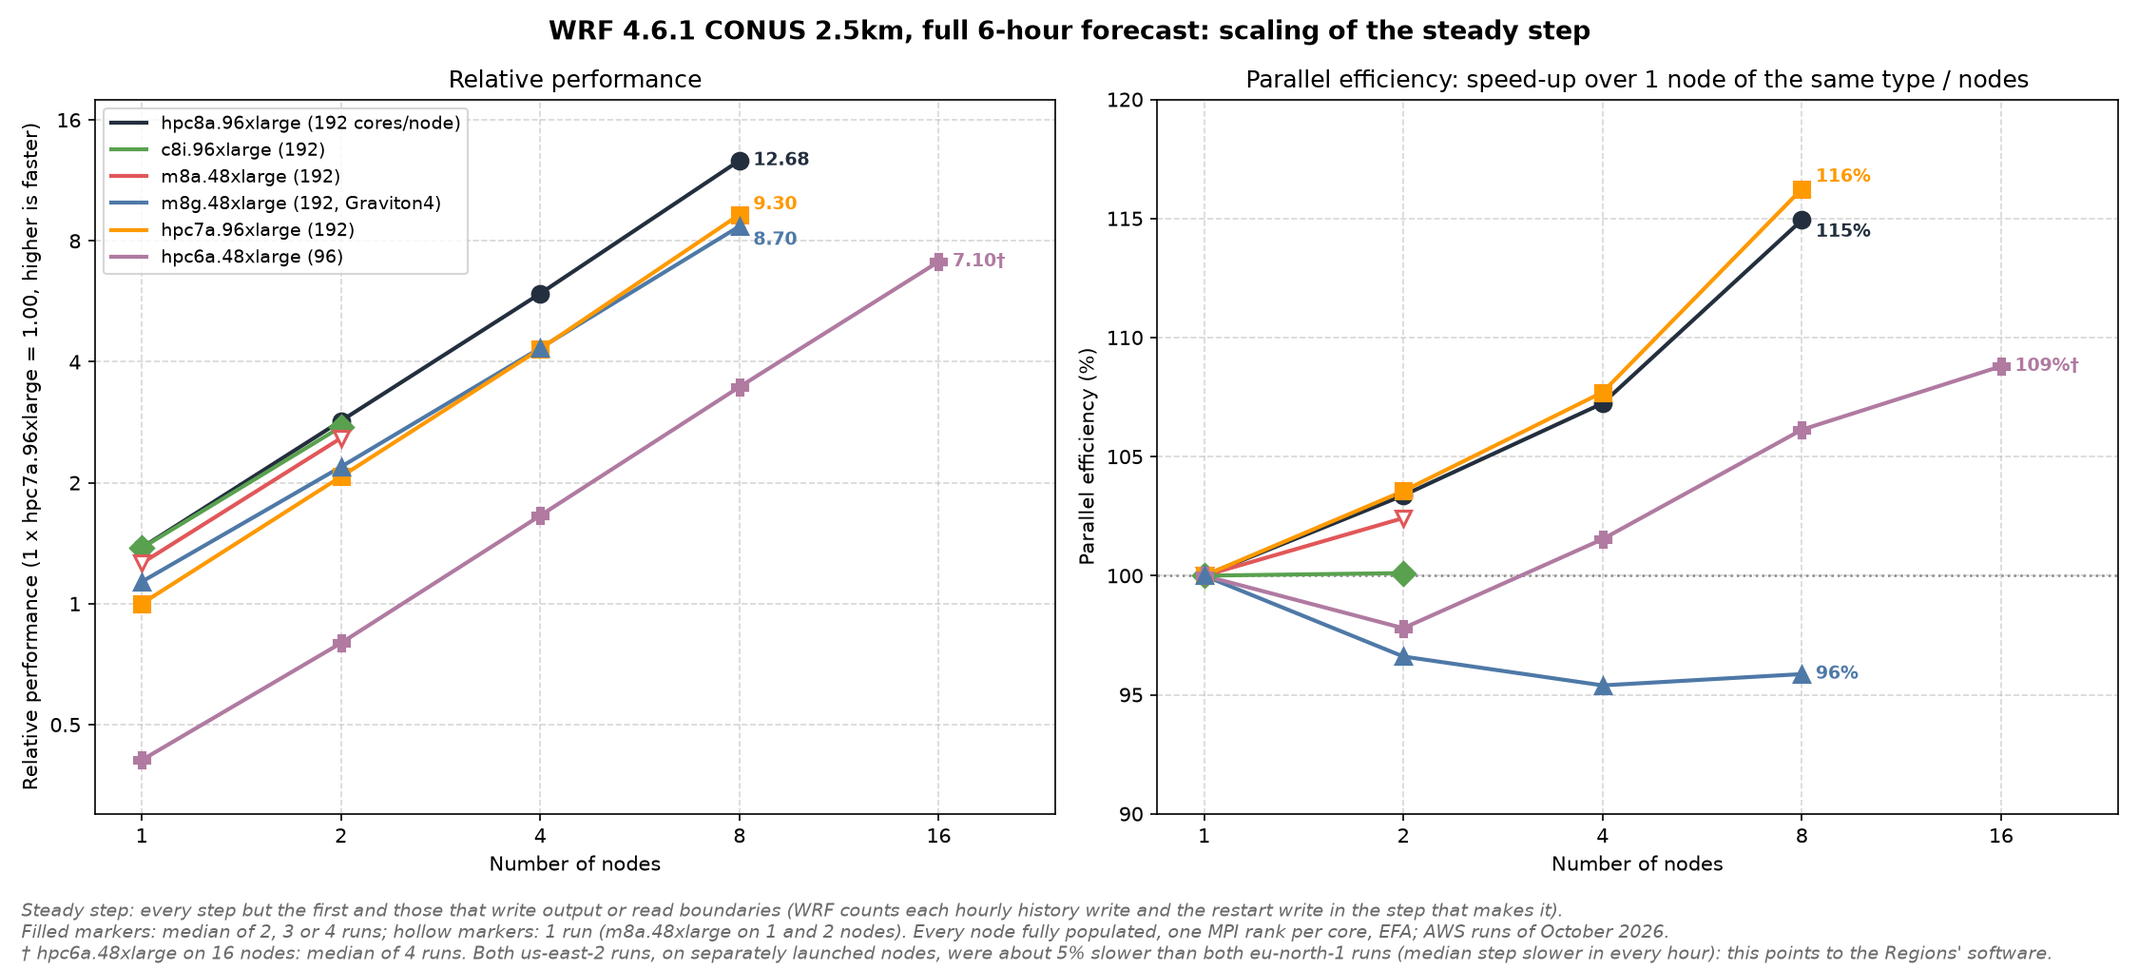
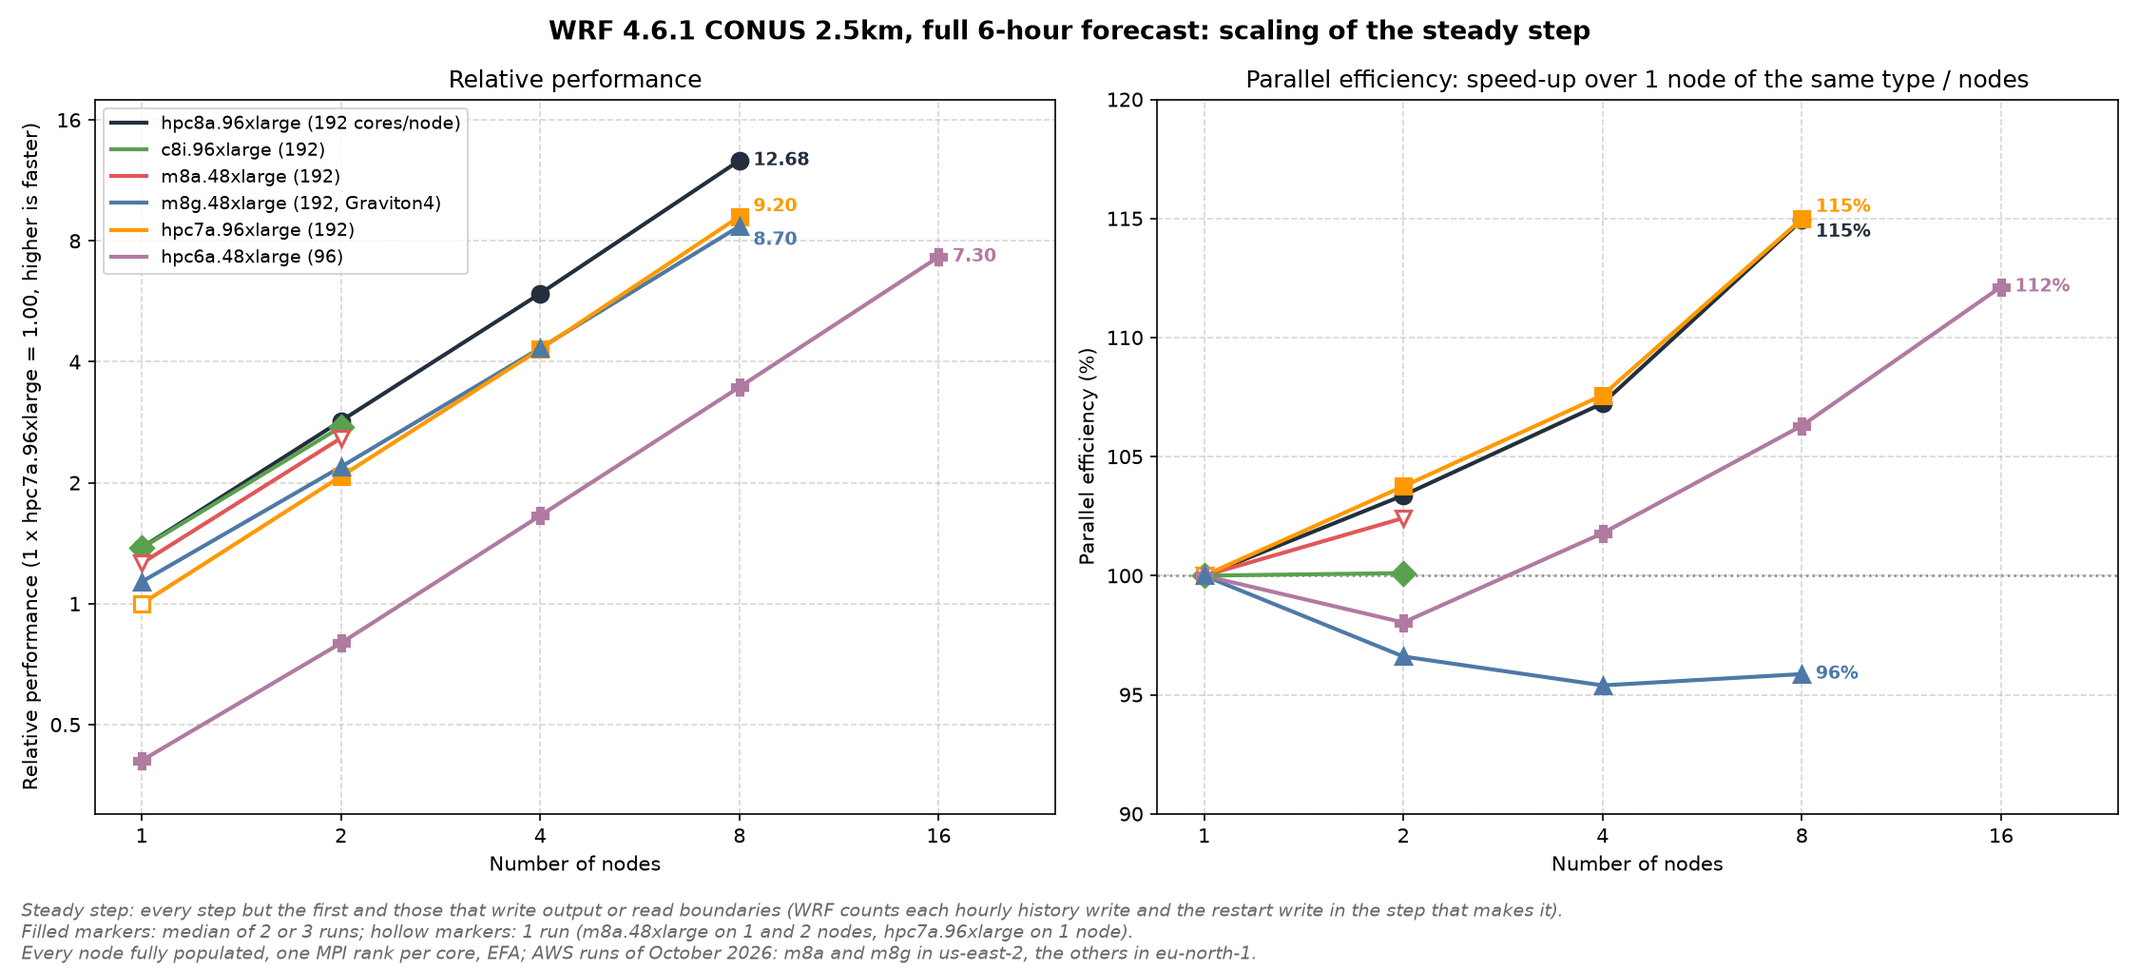
docs(WRF): one software stack per instance type, eu-north-1 where both ran
hpc7a.96xlarge and hpc6a.48xlarge ran the 6-hour CONUS 2.5km forecast with
serial output in eu-north-1 and in us-east-2, whose software stacks differ
(ParallelCluster 3.16.0 and 3.15.0, EFA installer 1.49.0 and 1.47.0, Intel
MPI 2021.18 and 2021.17). The steady-step chart and the PnetCDF gain table
took the median of both Regions' runs. They now take the eu-north-1 runs
only, the Region of the PnetCDF runs, so that each instance type is measured
on one stack, and the Performance section names the stacks and says which
runs answer.

generate_conus2p5km_chart.py holds hpc7a's and hpc6a's values from those
runs, names the Regions in its notes, and drops the note on the 16-node
hpc6a point, which no longer mixes Regions. On 8 hpc7a nodes the chart gives
9.20 (9.30 before) and on 16 hpc6a nodes 7.30 (7.10), with efficiencies of
115% and 112%, and the one-node hpc7a reference rests on one run. Three
gains move by 0.01 or 0.02 (hpc6a on 1, 8 and 16 nodes); the takeaways, the
run counts and Key Metrics' average-step range follow.

diff --git a/Doc/img/WRF/generate_conus2p5km_chart.py b/Doc/img/WRF/generate_conus2p5km_chart.py
@@ -10,8 +10,10 @@ but the first and those that write output or read boundaries (WRF counts each
 history or restart write in the step that makes it, and the writes do not get
 faster with more nodes). Per configuration (instance type, node count) the
 median over its runs is taken; relative performance = the 1 x hpc7a.96xlarge
-median / the configuration's median. Only relative values and run counts are
-embedded here.
+median / the configuration's median. An instance type that ran in two AWS
+Regions (hpc7a.96xlarge, hpc6a.48xlarge) is taken from its eu-north-1 runs
+only, so that each type is measured on one software stack. Only relative
+values and run counts are embedded here.
 
 Usage (from this directory):
     python3 generate_conus2p5km_chart.py
@@ -27,9 +29,11 @@ from matplotlib.ticker import FixedLocator, FuncFormatter, NullLocator
 # ---------------------------------------------------------------------------
 # Measured data: relative performance (1 x hpc7a.96xlarge = 1.00) and run count
 # per node count. WRF 4.6.1, CONUS 2.5km (1501 x 1201 x 50), the 6-hour forecast
-# with hourly history output, AWS runs of October 2026 (read 2026-10-09). Every
+# with hourly history output, AWS runs of October 2026 (read 2026-10-27): m8a
+# and m8g in us-east-2 (ParallelCluster 3.15.0, EFA installer 1.47.0), the
+# others in eu-north-1 (ParallelCluster 3.16.0, EFA installer 1.49.0). Every
 # node fully populated, one MPI rank per core (OMP_NUM_THREADS=1), EFA:
-#   x86        the GCC 11 + Intel MPI build (dmpar), Intel MPI 2021.17 or
+#   x86        the GCC 11 + Intel MPI build (dmpar), Intel MPI 2021.17 (m8a) or
 #              2021.18 with the settings of x86/wrf-benchmark-conus2.5km-intel.sbatch
 #   Graviton4  the Spack GCC build (dm+sm, run pure MPI) with OpenMPI 5.0.9,
 #              launched as Arm/wrf-benchmark.sbatch does
@@ -40,20 +44,10 @@ DATA = {
     "c8i.96xlarge":   {1: (1.376, 3), 2: (2.755, 3)},
     "m8a.48xlarge":   {1: (1.261, 1), 2: (2.583, 1)},
     "m8g.48xlarge":   {1: (1.134, 3), 2: (2.191, 3), 4: (4.327, 3), 8: (8.697, 2)},
-    "hpc7a.96xlarge": {1: (1.000, 3), 2: (2.071, 3), 4: (4.308, 3), 8: (9.299, 3)},
-    "hpc6a.48xlarge": {1: (0.408, 3), 2: (0.798, 3), 4: (1.657, 3), 8: (3.464, 3),
-                       16: (7.102, 4)},
+    "hpc7a.96xlarge": {1: (1.000, 1), 2: (2.075, 2), 4: (4.303, 2), 8: (9.198, 2)},
+    "hpc6a.48xlarge": {1: (0.407, 2), 2: (0.798, 2), 4: (1.657, 2), 8: (3.461, 2),
+                       16: (7.302, 2)},
 }
-
-# Points whose runs come from two AWS Regions with a visible gap: marked "†".
-REGION_NOTES = {
-    ("hpc6a.48xlarge", 16): "hpc6a.48xlarge on 16 nodes: median of 4 runs. Both us-east-2 "
-                            "runs, on separately launched nodes, were about 5% slower than "
-                            "both eu-north-1 runs (median step slower in every hour): this "
-                            "points to the Regions' software.",
-}
-# The note is written for these 4 runs: re-check its text when a run is added there.
-assert DATA["hpc6a.48xlarge"][16][1] == 4, "re-check REGION_NOTES"
 
 # type: (legend label, colour, marker,
 #        end-label offset in points (dx, dy), left panel and right panel)
@@ -92,12 +86,10 @@ def plot_series(ax, itype, nodes, values, runs, colour, marker, label):
                 zorder=4 if itype in MARKERS_ON_TOP else 3)
 
 
-def end_label(ax, itype, x, y, text, offset, colour):
+def end_label(ax, x, y, text, offset, colour):
     """Value label at a series' last point (8 or 16 nodes only, where there is room)."""
     if offset is None:
         return
-    if (itype, x) in REGION_NOTES:
-        text += "†"
     ax.annotate(text, (x, y), xytext=offset, textcoords="offset points",
                 ha="left", va="center", fontsize=9, fontweight="bold", color=colour)
 
@@ -120,7 +112,7 @@ for itype, points in DATA.items():
     nodes = sorted(points)
     rel = [points[n][0] for n in nodes]
     plot_series(ax1, itype, nodes, rel, [points[n][1] for n in nodes], colour, marker, label)
-    end_label(ax1, itype, nodes[-1], rel[-1], f"{rel[-1]:.2f}", offset, colour)
+    end_label(ax1, nodes[-1], rel[-1], f"{rel[-1]:.2f}", offset, colour)
 
 node_axis(ax1)
 ax1.set_yscale("log", base=2)
@@ -139,7 +131,7 @@ for itype, points in DATA.items():
     nodes = sorted(eff)
     pct = [100 * eff[n] for n in nodes]
     plot_series(ax2, itype, nodes, pct, [points[n][1] for n in nodes], colour, marker, label)
-    end_label(ax2, itype, nodes[-1], pct[-1], f"{pct[-1]:.0f}%", offset, colour)
+    end_label(ax2, nodes[-1], pct[-1], f"{pct[-1]:.0f}%", offset, colour)
 
 node_axis(ax2)
 ax2.axhline(100, color="gray", linestyle=":", linewidth=1.2, zorder=1)
@@ -147,7 +139,7 @@ ax2.set_ylim(90, 120)
 ax2.set_ylabel("Parallel efficiency (%)")
 ax2.set_title("Parallel efficiency: speed-up over 1 node of the same type / nodes")
 
-# --- Notes: the metric, the run counts, the marked points ----------------------------
+# --- Notes: the metric, the run counts, the Regions ---------------------------------
 single = {}
 for itype, points in DATA.items():
     ones = [n for n, (_, runs) in sorted(points.items()) if runs == 1]
@@ -177,10 +169,11 @@ markers_text = "; ".join(marker_notes)
 
 notes = [
     "Steady step: every step but the first and those that write output or read boundaries "
-    "(WRF counts each hourly history write and the restart write in the step that makes it).",
-    markers_text[:1].upper() + markers_text[1:]
-    + ". Every node fully populated, one MPI rank per core, EFA; AWS runs of October 2026.",
-] + [f"† {text}" for text in REGION_NOTES.values()]
+    + "(WRF counts each hourly history write and the restart write in the step that makes it).",
+    markers_text[:1].upper() + markers_text[1:] + ".",
+    "Every node fully populated, one MPI rank per core, EFA; AWS runs of October 2026: m8a and m8g in "
+    + "us-east-2, the others in eu-north-1.",
+]
 fig.text(0.01, 0.005, "\n".join(notes), fontsize=9, style="italic", color="dimgray",
          ha="left", va="bottom")
 fig.suptitle("WRF 4.6.1 CONUS 2.5km, full 6-hour forecast: scaling of the steady step",

diff --git a/apps/WRF/README.md b/apps/WRF/README.md
@@ -219,6 +219,8 @@ The CONUS 2.5km results are three views of the same benchmark: WRF 4.6.1 on the 
 - [Compute scaling](#conus-25km--compute-scaling-on-six-instance-types-6-hour-forecast): the steady step, which leaves the first step, the output and the input reads out, on six instance types. It shows how the time steps themselves scale.
 - [Output format](#conus-25km--output-format-6-hour-forecast): what writing the output uncompressed, or in parallel through PnetCDF, changes.
 
+The runs behind these views were made in October 2026: on `hpc8a`, `c8i`, `hpc7a` and `hpc6a` in eu-north-1 (ParallelCluster 3.16.0, EFA installer 1.49.0, Intel MPI 2021.18), and on `m8a` and `m8g` in us-east-2 (ParallelCluster 3.15.0, EFA installer 1.47.0; Intel MPI 2021.17 on `m8a`). `hpc7a` and `hpc6a` also ran the forecast with serial output in us-east-2; this README's tables and charts take their eu-north-1 runs only, so that each instance type is measured on one software stack. On the configurations run in both Regions, the two stacks' steady steps agree within 2%, but on 16 `hpc6a.48xlarge` nodes the two us-east-2 runs were both about 5% slower than the two eu-north-1 runs.
+
 ### CONUS 2.5km — whole run with PnetCDF output (6-hour forecast)
 
 This chart shows the scaling of the whole forecast with its history and restart files written through PnetCDF (`io_form_history = io_form_restart = 11`) to FSx for Lustre, on 1 to 16 nodes of AWS EC2 [hpc8a](https://aws.amazon.com/ec2/instance-types/hpc8a/), [c8i](https://aws.amazon.com/ec2/instance-types/c8i/), [hpc7a](https://aws.amazon.com/ec2/instance-types/hpc7a/) and [hpc6a](https://aws.amazon.com/ec2/instance-types/hpc6a/) instances.
@@ -249,7 +251,7 @@ Key takeaways:
 
 ### CONUS 2.5km — compute scaling on six instance types (6-hour forecast)
 
-This chart shows how the time steps of the same forecast scale, leaving the first step, the output and the input reads out, on 1 to 16 nodes of AWS EC2 [hpc8a](https://aws.amazon.com/ec2/instance-types/hpc8a/), [c8i](https://aws.amazon.com/ec2/instance-types/c8i/), [m8a](https://aws.amazon.com/ec2/instance-types/m8a/), [m8g](https://aws.amazon.com/ec2/instance-types/m8g/), [hpc7a](https://aws.amazon.com/ec2/instance-types/hpc7a/) and [hpc6a](https://aws.amazon.com/ec2/instance-types/hpc6a/) instances. These runs wrote the serial output the case ships with (`io_form_history = io_form_restart = 2`); m8a and m8g were run with that output only. On the 15 configurations also run with PnetCDF, the steady step of the PnetCDF runs is within 2.5% of that of the serial runs made in the same Region: the steady step does not depend on the output format.
+This chart shows how the time steps of the same forecast scale, leaving the first step, the output and the input reads out, on 1 to 16 nodes of AWS EC2 [hpc8a](https://aws.amazon.com/ec2/instance-types/hpc8a/), [c8i](https://aws.amazon.com/ec2/instance-types/c8i/), [m8a](https://aws.amazon.com/ec2/instance-types/m8a/), [m8g](https://aws.amazon.com/ec2/instance-types/m8g/), [hpc7a](https://aws.amazon.com/ec2/instance-types/hpc7a/) and [hpc6a](https://aws.amazon.com/ec2/instance-types/hpc6a/) instances. These runs wrote the serial output the case ships with (`io_form_history = io_form_restart = 2`); m8a and m8g were run with that output only. On the 15 configurations also run with PnetCDF, the steady step of the PnetCDF runs is within 2.5% of that of the serial runs: the steady step does not depend on the output format.
 
 Every node is fully populated with one MPI rank per core (96 on `hpc6a.48xlarge`, 192 on the others), over EFA. The x86 instances run the GCC + Intel MPI build (Option 2) with the Intel MPI settings of `x86/wrf-benchmark-conus2.5km-intel.sbatch` (Intel MPI 2021.17 or 2021.18, MULTIRAIL enabled); `m8g.48xlarge` runs the Graviton4 build with OpenMPI 5.0.9, launched as `Arm/wrf-benchmark.sbatch` does. Performance is the steady step (see [Key Metrics](#key-metrics)), the median over each configuration's runs, normalized to a single `hpc7a.96xlarge` node — higher is better. The right panel shows each instance type's parallel efficiency against its own single node.
 
@@ -259,21 +261,21 @@ Relative performance (1 node `hpc7a.96xlarge` = 1.00×):
 
 | Nodes | hpc8a.96xlarge | c8i.96xlarge | m8a.48xlarge | m8g.48xlarge | hpc7a.96xlarge | hpc6a.48xlarge |
 |------:|---------------:|-------------:|-------------:|-------------:|---------------:|---------------:|
-| 1 | 1.38× | 1.38× | 1.26× (1 run) | 1.13× | 1.00× | 0.41× |
-| 2 | 2.85× | 2.75× | 2.58× (1 run) | 2.19× | 2.07× | 0.80× |
-| 4 | 5.92× | — | — | 4.33× | 4.31× | 1.66× |
-| 8 | 12.68× | — | — | 8.70× (2 runs) | 9.30× | 3.46× |
-| 16 | — | — | — | — | — | 7.10× (4 runs) |
+| 1 | 1.38× | 1.38× | 1.26× (1 run) | 1.13× | 1.00× (1 run) | 0.41× |
+| 2 | 2.85× | 2.75× | 2.58× (1 run) | 2.19× | 2.08× | 0.80× |
+| 4 | 5.92× | — | — | 4.33× | 4.30× | 1.66× |
+| 8 | 12.68× | — | — | 8.70× (2 runs) | 9.20× | 3.46× |
+| 16 | — | — | — | — | — | 7.30× |
 
-All other values are medians of 3 runs. The runs were made in October 2026, with 0 to 8 other benchmark jobs sharing their FSx for Lustre file system (the steady step leaves file I/O out). The runs of each configuration agree within 3%, except on 16 `hpc6a.48xlarge` nodes: there the two runs in us-east-2, on separately launched nodes, agree within 0.5% but were both about 5% slower than the two in eu-north-1 (6.94× against 7.30×), and their median step was slower than either of theirs in every hour of the forecast. That points to the Regions' software stacks (they differ, for example Intel MPI 2021.17 against 2021.18) rather than to the nodes of one us-east-2 run. The table and the chart give the median of all four.
+The other values are medians of 3 runs on `hpc8a.96xlarge`, `c8i.96xlarge` and `m8g.48xlarge`, and of 2 on `hpc7a.96xlarge` and `hpc6a.48xlarge`. The runs were made in October 2026, with 0 to 8 other benchmark jobs sharing their FSx for Lustre file system (the steady step leaves file I/O out), and the runs of each configuration agree within 3%.
 
 Key takeaways:
 
-- The steady step keeps scaling to 1,536 cores: hpc7a and hpc8a reach **116%** and **115%** parallel efficiency on 8 nodes, and hpc6a **109%** on 16. Efficiency above 100% means the steady step shrank more than in proportion to the node count; each rank's smaller part of the grid fitting better in cache would explain it, but that was not measured here.
-- A single hpc8a node delivers **1.38×** the performance of a single hpc7a node, and hpc8a stays at 1.36–1.38× hpc7a at every node count from 1 to 8.
+- The steady step keeps scaling to 1,536 cores: hpc7a and hpc8a both reach **115%** parallel efficiency on 8 nodes, and hpc6a **112%** on 16. Efficiency above 100% means the steady step shrank more than in proportion to the node count; each rank's smaller part of the grid fitting better in cache would explain it, but that was not measured here.
+- A single hpc8a node delivers **1.38×** the performance of a single hpc7a node, and hpc8a stays at 1.37–1.38× hpc7a at every node count from 1 to 8.
 - On 1 and 2 nodes, c8i is within 4% of hpc8a (1.38× and 2.75× against 1.38× and 2.85×); m8a reaches 1.26× and 2.58× (one run each).
-- m8g (Graviton4, OpenMPI 5) starts ahead of hpc7a (1.13× on one node) but scales at 95–97%, so the two are level at 4 nodes and hpc7a leads at 8 (9.30× against 8.70×).
-- On the total wall time instead, the same runs reach only 3.53× (hpc7a) and 4.68× (hpc8a) on 8 nodes: the hourly history writes and the restart write do not get faster with more nodes, and as these x86 runs wrote them (serial, compressed netCDF-4) they take 15–16% of a one-node hpc7a or hpc8a run but 64–66% of an 8-node one. [Whole run with PnetCDF output](#conus-25km--whole-run-with-pnetcdf-output-6-hour-forecast) gives the whole run's scaling with the output written as [Output format](#output-format) recommends, and the next section what the output format changes.
+- m8g (Graviton4, OpenMPI 5) starts ahead of hpc7a (1.13× on one node) but scales at 95–97%, so the two are level at 4 nodes and hpc7a leads at 8 (9.20× against 8.70×).
+- On the total wall time instead, the same runs reach only 3.53× (hpc7a) and 4.69× (hpc8a) on 8 nodes: the hourly history writes and the restart write do not get faster with more nodes, and as these x86 runs wrote them (serial, compressed netCDF-4) they take 15–16% of a one-node hpc7a or hpc8a run but 64–66% of an 8-node one. [Whole run with PnetCDF output](#conus-25km--whole-run-with-pnetcdf-output-6-hour-forecast) gives the whole run's scaling with the output written as [Output format](#output-format) recommends, and the next section what the output format changes.
 
 ### CONUS 2.5km — output format (6-hour forecast)
 
@@ -298,13 +300,13 @@ Every configuration of [Whole run with PnetCDF output](#conus-25km--whole-run-wi
 
 | Nodes | hpc8a.96xlarge | c8i.96xlarge | hpc7a.96xlarge | hpc6a.48xlarge |
 |------:|---------------:|-------------:|---------------:|---------------:|
-| 1 | 1.15× | 1.21× | 1.14× | 1.06× |
+| 1 | 1.15× | 1.21× | 1.14× (1 serial run) | 1.07× |
 | 2 | 1.30× | 1.46× | 1.32× | 1.13× |
 | 4 | 1.61× | — | 1.62× | 1.28× |
-| 8 | 2.38× | — | 2.35× | 1.56× |
-| 16 | — | — | — | 2.21× |
+| 8 | 2.38× | — | 2.35× | 1.57× |
+| 16 | — | — | — | 2.19× |
 
-Each value compares the medians of the two sections' runs: 2 with PnetCDF, and 3 with serial output (4 on 16 `hpc6a.48xlarge` nodes). The PnetCDF runs were all made in eu-north-1; on `hpc7a.96xlarge` and `hpc6a.48xlarge` the serial runs include runs made in us-east-2, and with the eu-north-1 serial runs alone every value is within 0.02 of the table's. The gain grows with the node count, because the time steps get faster with more nodes while the serial output does not, so the output takes a growing share of the serial run. It is smallest on `hpc6a.48xlarge`, whose time steps take longest, so that the output is a smaller share of its runs. How much of the gain comes from not compressing was measured on `hpc8a.96xlarge` only, in the first table of this section.
+Each value compares the medians of the two sections' runs, all made in eu-north-1: 2 with PnetCDF, and with serial output 3 on `hpc8a.96xlarge` and `c8i.96xlarge` and 2 on `hpc7a.96xlarge` and `hpc6a.48xlarge`, or 1 where marked. The gain grows with the node count, because the time steps get faster with more nodes while the serial output does not, so the output takes a growing share of the serial run. It is smallest on `hpc6a.48xlarge`, whose time steps take longest, so that the output is a smaller share of its runs. How much of the gain comes from not compressing was measured on `hpc8a.96xlarge` only, in the first table of this section.
 
 ### Arm — Graviton3E (hpc7g) vs Graviton4 (m8g)
 
@@ -347,7 +349,7 @@ Key takeaways:
 Run the full forecast the case ships with (6 hours, 1,440 steps of 15 s for CONUS 2.5km), not a shortened one. To see how the time steps scale with the node count, use the median time per step, or the steady step: the average without the first step and the steps that write output or read boundaries. The average per step and the total wall time both include output, which does not get faster in proportion to the node count: WRF counts each history or restart write in the `Timing for main` line of the step that makes it. To choose an instance type and a node count, compare the total wall time instead, with the output settings you will use ([Whole run with PnetCDF output](#conus-25km--whole-run-with-pnetcdf-output-6-hour-forecast)).
 
 - **A shortened run mostly measures start-up.** A 5-minute window (20 steps) on 1, 2, 4 and 8 `hpc8a.96xlarge` nodes (Intel MPI, June 2026, medians of 3 to 7 runs) ran 1.22, 1.34 and 1.20 times as fast on 2, 4 and 8 nodes as on one, so 8 nodes looked slower than 4, while the median step ran 2.09, 4.31 and 9.47 times as fast. The first step took about the same time at every node count, most of it the history write at t=0, so it grew from 46-47% of the run on 1 node to 55-58% on 8, and it dominates the average over the 20 steps (only 1.47 times as fast on 8 nodes as on one).
-- **The full forecast writes output every hour.** With the serial output the case ships with, on one `hpc7a.96xlarge`, `m8g.48xlarge` or `hpc6a.48xlarge` node (October 2026) its first step is under 2% of the run, but the 7 hourly history writes and the restart write took 7-17% of it, all but the last of them inside step timings, so the average step was 17-30% above the median step. On 8 nodes of `hpc7a.96xlarge` or `hpc8a.96xlarge` the same writes took about two thirds of the run, so the more nodes, the larger the share of the output in the average and in the wall time. With PnetCDF output the writes took 1-3% of a one-node run and 16% of an 8-node `hpc7a.96xlarge` or `hpc8a.96xlarge` run: much less, but they do not shrink as the time steps do: on 8 `hpc8a.96xlarge` nodes they took 5% longer than on one, and on 8 `hpc7a.96xlarge` nodes 30% less.
+- **The full forecast writes output every hour.** With the serial output the case ships with, on one `hpc7a.96xlarge`, `m8g.48xlarge` or `hpc6a.48xlarge` node (October 2026) its first step is under 2% of the run, but the 7 hourly history writes and the restart write took 7-17% of it, all but the last of them inside step timings, so the average step was 17-29% above the median step. On 8 nodes of `hpc7a.96xlarge` or `hpc8a.96xlarge` the same writes took about two thirds of the run, so the more nodes, the larger the share of the output in the average and in the wall time. With PnetCDF output the writes took 1-3% of a one-node run and 16% of an 8-node `hpc7a.96xlarge` or `hpc8a.96xlarge` run: much less, but they do not shrink as the time steps do: on 8 `hpc8a.96xlarge` nodes they took 5% longer than on one, and on 8 `hpc7a.96xlarge` nodes 30% less.
 
 The 5-minute runs were launched a few at a time: 21 of the 22 overlapped 1 to 4 of the others on the cluster and its FSx for Lustre file system, and the one made alone (4 nodes) matched the other 4-node runs within 1%. The one-node 6-hour runs had up to 6 other benchmark jobs running on the same file system when they started or ended.
 
